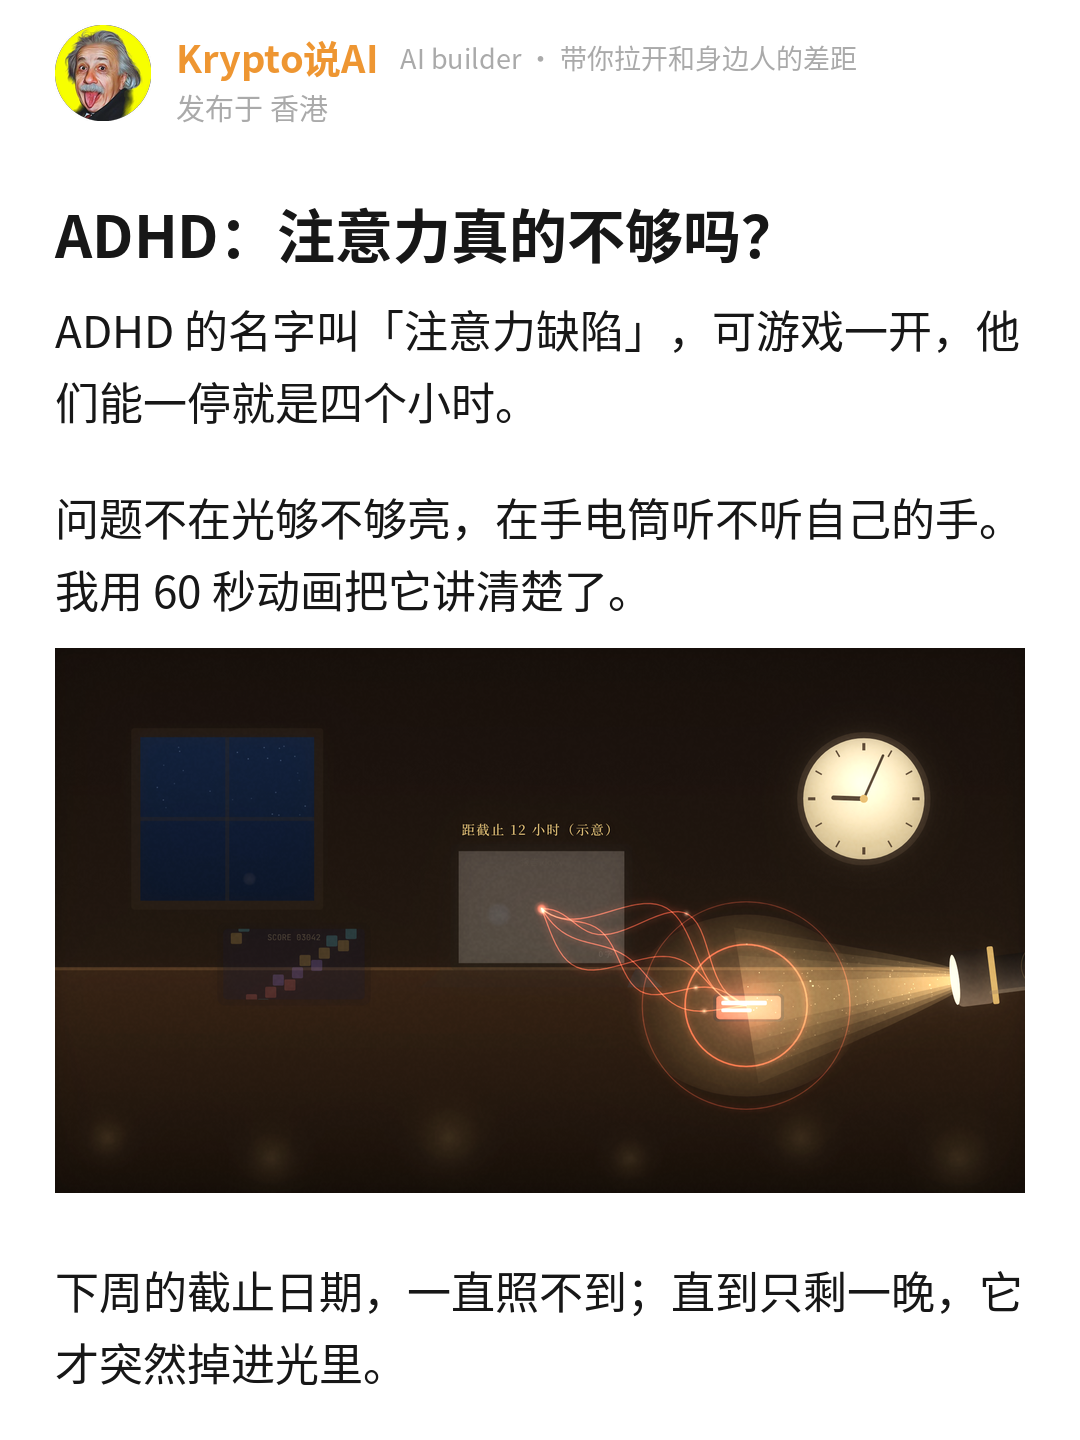
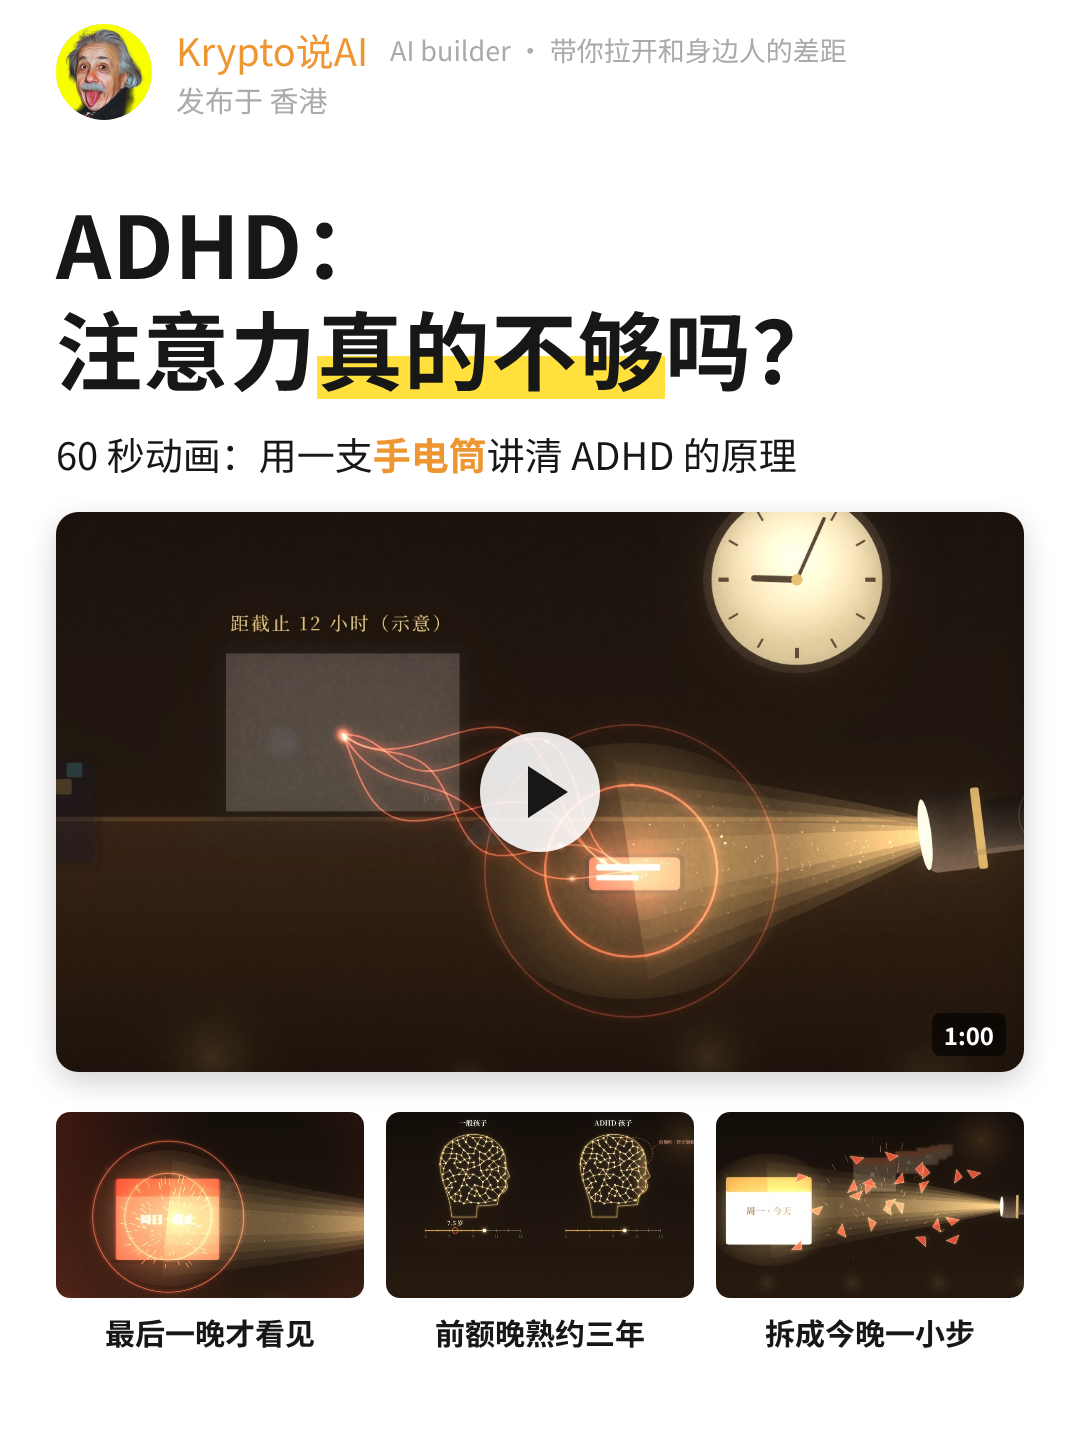
ADHD 视频封面定稿：白底、页头和图文一致、黑标题黄荧光笔、大画面带播放键；SKILL 规则改成同一家族不必同版式
Claude-Session: https://claude.ai/code/session_01NaeRTdeFPRXkVgXK6PRjPx

diff --git a/发布/2026-11-03_adhd-film/封面素材/cover_white.html b/发布/2026-11-03_adhd-film/封面素材/cover_white.html
@@ -1,0 +1,26 @@
+<!doctype html><html><head><meta charset="utf-8"><style>
+html,body{margin:0;width:1080px;height:1440px;overflow:hidden;background:#fff;font-family:"Noto Sans CJK SC","PingFang SC",sans-serif;color:#171717}
+.av{position:absolute;left:56px;top:24px;width:96px;height:96px;border-radius:50%;object-fit:cover}
+.nm{position:absolute;left:176px;top:22px;font-size:38px;font-weight:500;color:#EE9632}
+.sl{position:absolute;left:390px;top:30px;font-size:27px;color:#AAAAAA}
+.loc{position:absolute;left:176px;top:78px;font-size:29px;color:#AAAAAA}
+.h1{position:absolute;left:56px;right:56px;top:190px;font-size:86px;font-weight:900;line-height:1.22;letter-spacing:1px}
+.hl{background:linear-gradient(transparent 58%,#FFE03D 58%,#FFE03D 92%,transparent 92%)}
+.k{position:absolute;left:56px;right:56px;top:425px;font-size:38px;line-height:1.5;color:#171717}
+.k b{color:#EE9632;font-weight:700}
+.fr{position:absolute;left:56px;top:512px;width:968px;height:560px;border-radius:22px;overflow:hidden;box-shadow:0 10px 30px rgba(0,0,0,.18)}
+.fr img{width:100%;height:100%;object-fit:cover;display:block}
+.play{position:absolute;left:50%;top:50%;width:120px;height:120px;margin:-60px 0 0 -60px;border-radius:50%;background:rgba(255,255,255,.88);box-shadow:0 4px 18px rgba(0,0,0,.3)}
+.play:after{content:"";position:absolute;left:48px;top:34px;border-left:40px solid #171717;border-top:26px solid transparent;border-bottom:26px solid transparent}
+.dur{position:absolute;right:18px;bottom:16px;background:rgba(0,0,0,.6);color:#fff;font-size:24px;font-weight:700;padding:4px 12px;border-radius:8px}
+.row{position:absolute;left:56px;top:1112px;width:968px;display:flex;gap:22px}
+.c{flex:1}.c .im{height:186px;border-radius:14px;overflow:hidden}.c img{width:100%;height:100%;object-fit:cover;display:block}
+.c p{margin:12px 0 0;font-size:30px;font-weight:700;text-align:center}
+.foot{position:absolute;left:56px;right:56px;top:1340px;font-size:34px;color:#171717;line-height:1.5}
+</style></head><body>
+<img class="av" src="avatar.png"><div class="nm">Krypto说AI</div><div class="sl">AI builder · 带你拉开和身边人的差距</div><div class="loc">发布于 香港</div>
+<div class="h1">ADHD：<br>注意力<span class="hl">真的不够</span>吗？</div>
+<div class="k">60 秒动画：用一支<b>手电筒</b>讲清 ADHD 的原理</div>
+<div class="fr"><img src="hero.jpg"><div class="play"></div><div class="dur">1:00</div></div>
+<div class="row"><div class="c"><div class="im"><img src="t_33.45.jpg"></div><p>最后一晚才看见</p></div><div class="c"><div class="im"><img src="t_42.40.jpg"></div><p>前额晚熟约三年</p></div><div class="c"><div class="im"><img src="t_48.70.jpg"></div><p>拆成今晚一小步</p></div></div>
+</body></html>

diff --git a/CLAUDE.md b/CLAUDE.md
@@ -3,7 +3,7 @@
 这个仓库是小红书账号 **Krypto说AI** 的工作区，也是它的记忆。在这里做的每一篇稿子，先读本页，再读 `账号/档案.md`、`账号/经历库.md` 和 `账号/爆文方法论.md`（10-14 起，选题 / 标题 / 首图 / 原文跟发的发前清单，交付时逐条写过没过）。每次用户说了新的经历、新的观点、新的规则，写回这两份文件并更新本页摘要，不要只留在对话里。
 
 ## 摘要
-- **11-03 ADHD 知识短片《手电筒》（`/vibe-knowledge-film` 改造后第一条，60 秒横屏 1920×1080，A 鎏金，无配乐只有合成音效，`发布/2026-11-03_adhd-film/`）**：用户先定竖屏、随后改横屏，「先不加配乐」（`meta.drone: 0`）。一个故事：黑屋、书桌、一支手电筒（= 注意力），能锁在游戏上四小时（超专注），却照不到下周的截止日期，直到只剩一晚才掉进光里。顶部钩子行「ADHD：注意力真的不够吗？」，0 秒大字「注意力缺陷？」，7s「你猜？」，33s 截止卡变红（hit），40s 两个侧脸前额按年龄亮起（Shaw 2007：7.5 vs 10.5 岁），44s 20 支小手电筒一支乱晃（约 5%，Polanczyk 2007），47s 截止卡拆成三张小卡、「今晚：只写一段」滑进光里，51s 回到书桌，结尾「你不是不够努力，只是比别人晚一点看见。」。事实表 `facts.md`，分镜 `storyboard.md`（旧 2 分钟版 `storyboard_v1_2分钟旧规矩.md`），工程 `project/film.js`。9 帧拼图改了三轮（光柱压字幕线 → 手电筒挪到右侧中间；桌上物件的亮区用错了光圈；截止卡远处看不出红；脑图填充太快；小卡压字幕；结尾文献撞字幕）。**用户看第一版（11-03）**：开头沙沙声太强 → 是引擎底噪 `air` 在 drone 0 时没关、响度归一又抬了约 20 dB，已在 `skills/vibe-knowledge-film/engine/audio.py` 修（drone 0 时底噪关、只限峰）；要「更高级酷炫的特效展示 ADHD 原理」→ 第二版加 `project/fx.js`：体积光 + 尘埃 + 镜头光晕、分心物的红色波纹和发光触须、光柱被扳走时甩弯、超专注隧道视野和时间流线、日历景深和残影、截止卡撞进光里的冲击波 / 火星 / 抖动 / 色差、头里的神经网和成熟波、截止卡碎成 24 片再收拢成三张小卡、换场漏光（对照表在 storyboard.md「第二版」）。**封面（11-03）**：先做了暗金竖版（`封面_暗金版.png`），用户看主页后定「视频封面要和图文封面风格尽可能相似，不然主页很乱」→ 改用 render_meme 首页样式（`封面_图文风格/`，白底、头像 + 橙色昵称 + slogan「AI builder · 带你拉开和身边人的差距」、加粗标题、两段正文、片中 13 秒干净帧），`封面.png` 就是它；规则写进 vibe-knowledge-film SKILL「简报」第 5 条，以后视频封面都这样出
+- **11-03 ADHD 知识短片《手电筒》（`/vibe-knowledge-film` 改造后第一条，60 秒横屏 1920×1080，A 鎏金，无配乐只有合成音效，`发布/2026-11-03_adhd-film/`）**：用户先定竖屏、随后改横屏，「先不加配乐」（`meta.drone: 0`）。一个故事：黑屋、书桌、一支手电筒（= 注意力），能锁在游戏上四小时（超专注），却照不到下周的截止日期，直到只剩一晚才掉进光里。顶部钩子行「ADHD：注意力真的不够吗？」，0 秒大字「注意力缺陷？」，7s「你猜？」，33s 截止卡变红（hit），40s 两个侧脸前额按年龄亮起（Shaw 2007：7.5 vs 10.5 岁），44s 20 支小手电筒一支乱晃（约 5%，Polanczyk 2007），47s 截止卡拆成三张小卡、「今晚：只写一段」滑进光里，51s 回到书桌，结尾「你不是不够努力，只是比别人晚一点看见。」。事实表 `facts.md`，分镜 `storyboard.md`（旧 2 分钟版 `storyboard_v1_2分钟旧规矩.md`），工程 `project/film.js`。9 帧拼图改了三轮（光柱压字幕线 → 手电筒挪到右侧中间；桌上物件的亮区用错了光圈；截止卡远处看不出红；脑图填充太快；小卡压字幕；结尾文献撞字幕）。**用户看第一版（11-03）**：开头沙沙声太强 → 是引擎底噪 `air` 在 drone 0 时没关、响度归一又抬了约 20 dB，已在 `skills/vibe-knowledge-film/engine/audio.py` 修（drone 0 时底噪关、只限峰）；要「更高级酷炫的特效展示 ADHD 原理」→ 第二版加 `project/fx.js`：体积光 + 尘埃 + 镜头光晕、分心物的红色波纹和发光触须、光柱被扳走时甩弯、超专注隧道视野和时间流线、日历景深和残影、截止卡撞进光里的冲击波 / 火星 / 抖动 / 色差、头里的神经网和成熟波、截止卡碎成 24 片再收拢成三张小卡、换场漏光（对照表在 storyboard.md「第二版」）。**封面（11-03）**：先做暗金竖版（`封面_暗金版.png`），用户看主页后定「视频封面要和图文封面风格尽可能相似，不然主页很乱」；先试了直接用 render_meme 首页（`封面_图文风格/`），用户又说「不必完全一样，可以有些不同，但整体风格要相似、不要突兀对比」→ 定稿 `封面.png`（`封面素材/cover_white.html`）：白底、页头和图文完全一致、黑色加粗大标题 + 品牌黄荧光笔、一行副题、大张片中画面带播放键和时长、三张看点小图配黑字。规则写进 vibe-knowledge-film SKILL「简报」第 5 条，以后视频封面都按这个家族出
 - **11-03 改造 `/vibe-knowledge-film`（用户给了一份「代码生成视频」简报，定为默认做法，原文在 `skills/vibe-knowledge-film/references/prompts.md` 第〇节，执行口径在 SKILL.md「简报」）**：默认 60 秒、直接交付 mp4、不停下来等确认、每阶段报进展；横屏 1920×1080 和竖屏 1080×1920 都支持（`new_film.py --portrait`，竖屏版式在 worlds.md 文末）；只讲透一个最反常识的真实故事；0–2 秒钩子大字第 0 帧就满亮（`K.headline`）、顶部常驻钩子行（`K.hookBar`）、每 10–15 秒一个转折 /「你猜？」、结尾一句触动人心；场景分前中背三层（`K.depth`）；3D 用 Three.js（`get_fonts.py --three` + `new_film.py --three`，`K.three`）；外观恢复 A 鎏金（电影感暗金）并设为默认，B 寓言、C 夜曲保留；配乐：用户的曲子用 `engine/beat.py` 测 BPM / 第一拍、按小节取整片长、从乐句开头截，`audio.py --from` 截取 + 结尾淡出；没有曲子用 `engine/score.py` 按 `meta.music`（默认 120 BPM、段落强弱、揭晓 drop）合成；音效加 `hit` / `whoosh` / `ping`，混音最后 `alimiter` 限峰；逐帧导出 jpg、`--sheet` 默认 9 帧 3×3 自查至少两轮；`scripts/deliver.py` 出总览图 + 源码 zip 并查 H.264 / AAC / 30fps。`render.py` 自动用云端 Chromium。冒烟测试：竖屏鎏金 + Three.js 立方体 + 合成配乐 8 秒片全流程通过（峰值 −1.2 dBFS），原 `fold_C` 横屏样片重渲一致、`--det` 通过。改动清单在 `INSTALL_NOTES.md`。ADHD 片见下一条
 - **11-03 Google I/O 假名言稿（meme-v2 第 10 篇，观察，value 框架，立场 D，`发布/2026-11-03_google-io-sundar/meme-v2版/`，6 页 + 名片卡，待用户看）**：素材是用户发来的 X 推文打包（@AmitSha77280075 剪的 29 分钟 I/O 2026 主题演讲，Sundar / Demis / Varun，faster-whisper 转录 + 中文意译 + 20 张睁眼截图）。推文标题那句「IF YOU DON'T LEARN HOW TO ORCHESTRATE AGENTS NOW, YOU'LL SPEND 2027 CATCHING UP…」原片里搜不到（orchestrate / 2027 / catching up 都没有，只有 Varun 一句产品描述「multi-agent orchestration」），记在 `编辑用/source.md`。先问走了，用户答「你定，用原文对照那句假名言」。起法是一句原话直接引（上一篇是实测）。骨架：假名言 + 他没说过 → 转录里搜不到、唯一一处编排是产品描述（回指 a16z「差距以周为单位」是 Andreessen 原话）→ 真实 Sundar 克制（token 两年三百多倍、自己说「刷 token 有几分道理」、「做 builder 的好时代」）→ 内部 token 3 月 5000 亿 → 3 万亿 / 天、Sundar 用 Antigravity 修 bug → 93 子智能体 12 小时 < 1000 美元做出 OS 核心、跑 Doom 失败缺驱动 → 判断（编排已经便宜，拉开差距的是看出缺哪一块的人，截止日期 + 一个下午卖的是便宜的那一半）→ 你那段 → 结尾问「93 个 agent 都跑不起一局 Doom，一个下午学会的是哪一部分」。stance_line D，cost 无，「我」只有这次搜转录。图：`shots/01_0006.jpg` 当 hero、`11_0733.jpg`、`compare.png`（推文 vs 演讲原话）。check.py 0 ✗ 6 ⚠（969 字、英文专名 27 / 千字、数字 21 / 千字、开头锚点多都是演讲数据稿常态；因果词 5.2；「你」段以「如果你」起没被认出）。标题「谷歌CEO没说过的这句话，我查了原片」，备选「谷歌I/O这段原片，强烈建议看完。」「谷歌这场演讲，很多人只看了标题。」。正文.txt 领取物是核对名言三步。日志 #10
 - **11-02 五个金融公式稿（meme-v2 第 9 篇，观察，value 框架，立场 A，`发布/2026-11-02_five-equations/meme-v2版/`，8 页，待用户看）**：素材是用户发来的 X 长文打包（Lumen @lumenxbt 7-28《The Five Equations That Quietly Run Your Entire Financial Life》，1440 万浏览、1.18 万收藏，复利 / 72 法则 / 现值 / 几何平均 / 实际收益）。先问走了，用户答「你定，用 AI 重算那个角度可以」。「我」只用这次真做的操作：把全文交给 Claude 重算，查出两处错（25 岁一次投 1 万 vs 40 岁起每年投 1 万，8% 下是 21.7 万 vs 约 79 万，原文说前者多近一倍，结论反了；+50/−50/+50 正文写「接近 +7%」，同段和配图是 4%），2% 管理费吃掉近半核对是对的（核对记录在 `编辑用/source.md`）。stance「核对一个数字的成本被 AI 降到一分钟，只收藏不重算等于把判断交给写文章的人」；cost 填「无」（没问出代价）。起法是一次实测。图：原文封面当 hero、`five.png` 五个公式归谁管、`recheck.png` 原文 vs 重算、原文几何平均配图（写的就是 4%）。正文.txt 领取物是重算提示词。check.py 0 ✗ 3 ⚠（1118 字差 82、数字 49 / 千字是公式稿常态、无「你」段可选）。标题「理财爆文让Claude重算，错了两处」，备选「强烈建议理财文章都让Claude算一遍。」「理财公式这篇，看来很多人没算过。」。日志 #9。注意：这篇是理财题，跟 AI 的连接只在「让 AI 重算」这一层
